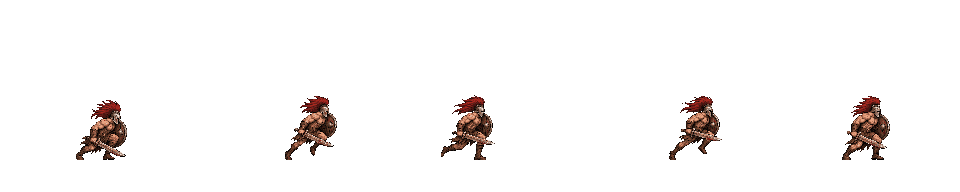
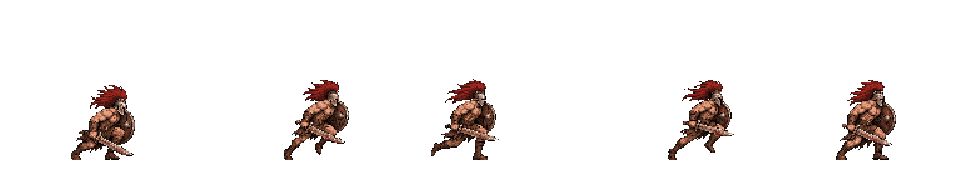
fix: restore Charge sprite proportions without changing foot registration

diff --git a/Tests/verify-arakus-charge-art.py b/Tests/verify-arakus-charge-art.py
@@ -1,0 +1,36 @@
+"""Read-only Charge PNG checks against the approved original main commit; requires Pillow."""
+import argparse
+import io
+from pathlib import Path
+import subprocess
+from PIL import Image
+
+p = argparse.ArgumentParser(description=__doc__)
+p.add_argument('--baseline', default='f13bb6bd25f469e38acce05eceb712712dc30c3f')
+a = p.parse_args()
+repo = Path(__file__).resolve().parents[1]
+path = 'Assets/Resources/ArakusV1/Charge.png'
+
+def original(name):
+    return subprocess.check_output(['git', 'show', a.baseline + ':' + name], cwd=repo)
+
+before = Image.open(io.BytesIO(original(path))).convert('RGBA')
+after = Image.open(repo / path).convert('RGBA')
+assert before.size == after.size == (960, 192)
+for frame in range(5):
+    old = before.crop((frame*192, 0, (frame+1)*192, 192))
+    new = after.crop((frame*192, 0, (frame+1)*192, 192))
+    b, c = old.getchannel('A').getbbox(), new.getchannel('A').getbbox()
+    assert b[3] == c[3] == 160, 'Foot baseline moved'
+    assert 0 < c[0] < c[2] < 192 and c[1] > 0, 'Clipped equipment/body'
+    assert c[2]-c[0] == round((b[2]-b[0])*1.25)
+    assert c[3]-c[1] == round((b[3]-b[1])*1.25)
+    assert set(new.getdata()) <= set(old.getdata()) | {(0, 0, 0, 0)}, 'Interpolated/new palette colors'
+    # Exact reproducibility: proportional source crop enlargement, no independent gear stretch.
+    expected = old.crop(b).resize((c[2]-c[0], c[3]-c[1]), Image.Resampling.NEAREST)
+    assert new.crop(c).tobytes() == expected.tobytes()
+    print('PASS frame', frame, 'opaque WH', (b[2]-b[0], b[3]-b[1]), '->', (c[2]-c[0], c[3]-c[1]))
+for unchanged in [path+'.meta', 'Assets/Resources/ArakusV1/Groggy.png',
+                  'Assets/Resources/ArakusV1/Groggy.png.meta', 'Assets/Scripts/ActorView.cs']:
+    assert (repo / unchanged).read_bytes() == original(unchanged), unchanged + ' changed'
+print('ARAKUS_CHARGE_ART_CHECKS_PASSED: 5 frames, exact nearest-neighbor source pixels, baseline, metadata and excluded files')

diff --git a/Docs/Art/ArakusChargePolish/README.md b/Docs/Art/ArakusChargePolish/README.md
@@ -1,0 +1,82 @@
+# Arakus charge polish
+
+Base: main `f13bb6bd25f469e38acce05eceb712712dc30c3f`.
+Branch: `fix/arakus-charge-polish`. Independent of DDA graph PR #16.
+Scope and Python/Pillow pixel processing were approved; the user confirmed team pre-sharing.
+Another team member must review before merge. No merge is authorized.
+
+## ShieldRush
+
+- Move duration: 1.75 -> 1.30 seconds, shared through `ArakusPatternTiming` by simulation and sprite sampling.
+- Distance 5m, windup 0.5s, recovery 0.35s, damage 4 and contact interval 0.25s remain unchanged before existing modifiers.
+- Rage divides move duration and interval by 1.5: movement is approximately 0.867s.
+- Existing DDA modifiers remain unchanged; they modify windup, damage and cooldown, not move duration.
+- Keeping the interval while shortening movement means six theoretical scheduled checks instead of seven
+  (the asset's count=8 remains an upper bound). Actual damage also depends on overlap and invulnerability.
+- The end-crossing frame now places the boss at the exact clamped goal; the old branch could stop just short.
+- Native clip frame durations remain unchanged. Runtime `Sample()` selects moving/recovery frames from the actual shared duration.
+  Generic Dash, pillar stun timing, attack range, hitboxes and other bosses are unchanged.
+
+## Charge sprite
+
+Scale and import settings were not causing the visual shrink: root scale is always 1.4, with PPU 56 and the same foot pivot.
+The original Charge art is much smaller than the 88–89px Idle silhouette. Correct only the five Charge source frames
+using proportional 1.25x nearest-neighbor enlargement of their opaque crops, anchored to the original pivot/foot baseline.
+This preserves crouch, palette, poses and equipment proportions, with only pixel-grid rounding.
+
+| Frame | Before opaque W×H | After opaque W×H |
+|---|---|---|
+| 0 | 51×60 | 64×75 |
+| 1 | 52×64 | 65×80 |
+| 2 | 54×65 | 68×81 |
+| 3 | 53×64 | 66×80 |
+| 4 | 48×64 | 60×80 |
+
+The sheet remains 960×192, with five 192×192 cells and feet ending at row 159 in every frame.
+`Charge.png.meta` is byte-identical to base, preserving GUID, slices, PPU and pivot. No runtime Scale compensation.
+`Groggy.png`, its metadata and its existing pose loop/recovery behavior are unchanged.
+The 75–81px crouching silhouettes remain shorter than standing Idle. No sword/shield crosses its cell edge.
+
+`Charge-comparison.png` shows original above / corrected below, each beside the same Idle reference.
+It is an asset comparison, **not a Unity screenshot**. `metrics.json` contains per-frame bounds.
+The complete original remains in the base commit; a separate local backup is also retained outside the project.
+An image-generation draft was rejected because it failed exact sheet dimensions; it is not included in the game.
+
+## Validation
+
+Linux .NET 8.0.427 (source allowlist + UnityShim, without CloudSync or real DB configuration):
+
+```sh
+python3 Tests/run-arakus-polish.py --dotnet /path/to/dotnet --suite logic
+python3 Tests/run-arakus-polish.py --dotnet /path/to/dotnet --suite animation
+python3 Tests/run-arakus-polish.py --dotnet /path/to/dotnet --suite polish
+python3 Tests/verify-arakus-charge-art.py
+```
+
+- Existing main logic: 119 assertions passed.
+- Existing animation: 422 assertions passed.
+- Added polish: 325 assertions passed, including forced -2..+2 assignments, normal/Rage, 30/60/144fps,
+  full arrival, animation boundaries, interval, dash invulnerability, both pillar collisions,
+  logical Charge/Groggy/Idle state transitions and another boss's Dash.
+- PNG checks passed: palette, exact nearest-neighbor pixels, foot baseline, dimensions, frame boundaries,
+  unchanged metadata/Groggy/ActorView. Before/after comparison was visually inspected.
+- Changed C# syntax: Roslyn errors 0. This is not Unity API compilation.
+
+Unity Editor/Windows are unavailable here. Unity compilation, actual ActorView/Animator sampling,
+input and human dodgeability, Game View captures, PowerShell entrypoints and Windows build/play were not executed.
+Headless state checks do not validate rendered character size or animation smoothness.
+
+## Unity 6000.4.0f1 acceptance checks
+
+1. Use an independent copy with actual `Assets/StreamingAssets/supabase.json` excluded **before opening the Editor**.
+   Do not change/delete the original configuration or commit its exclusion. Confirm DB is unconfigured;
+   SaveStore.Root isolation alone does not disable CloudSync. Protect personal saves.
+2. Compile, run existing PowerShell logic/animation checks and clear Console errors.
+3. Force `rush` with existing F5/F6 development controls. Compare 5m travel in 1.30s normal / ~0.867s Rage,
+   unchanged windup/recovery/contact interval, moving frames stopping at arrival, dash/spacing evasion.
+4. Exercise -2..+2 with an isolated controlled fixture; do not add learning/debug changes to production.
+   Hardest DDA + Rage windup is ~0.267s, so human reaction/telegraph fairness needs playtesting.
+5. Force `charge` from each side into each pillar. Compare windup, sprint, collision, 3.2s groggy,
+   and return to idle, including hit-stop/pause. Check feet, body/equipment size, left-facing mirror and no clipping.
+6. Check other Arakus attacks, other bosses' Dash, DDA learning/save behavior and Windows build/play.
+7. Attach real Game View evidence and obtain one team member's review before merge.
